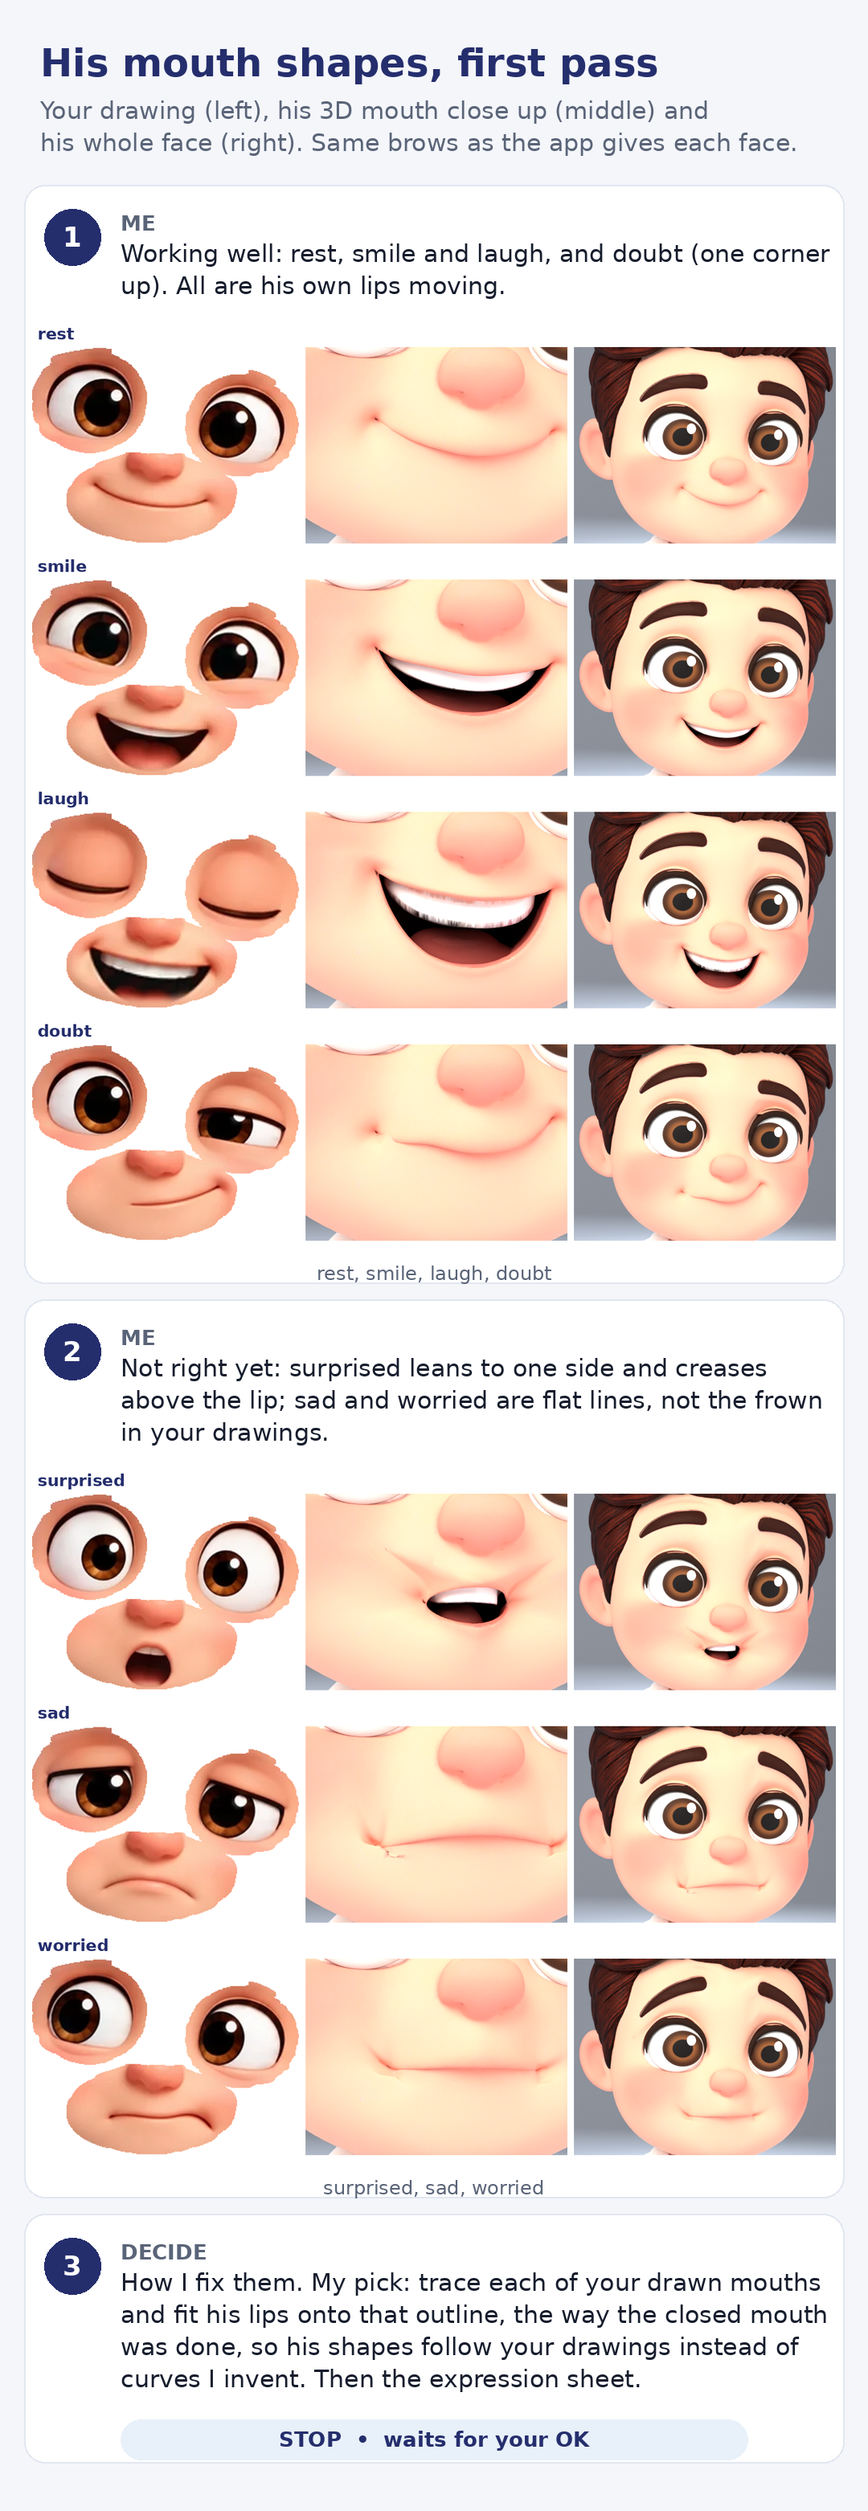
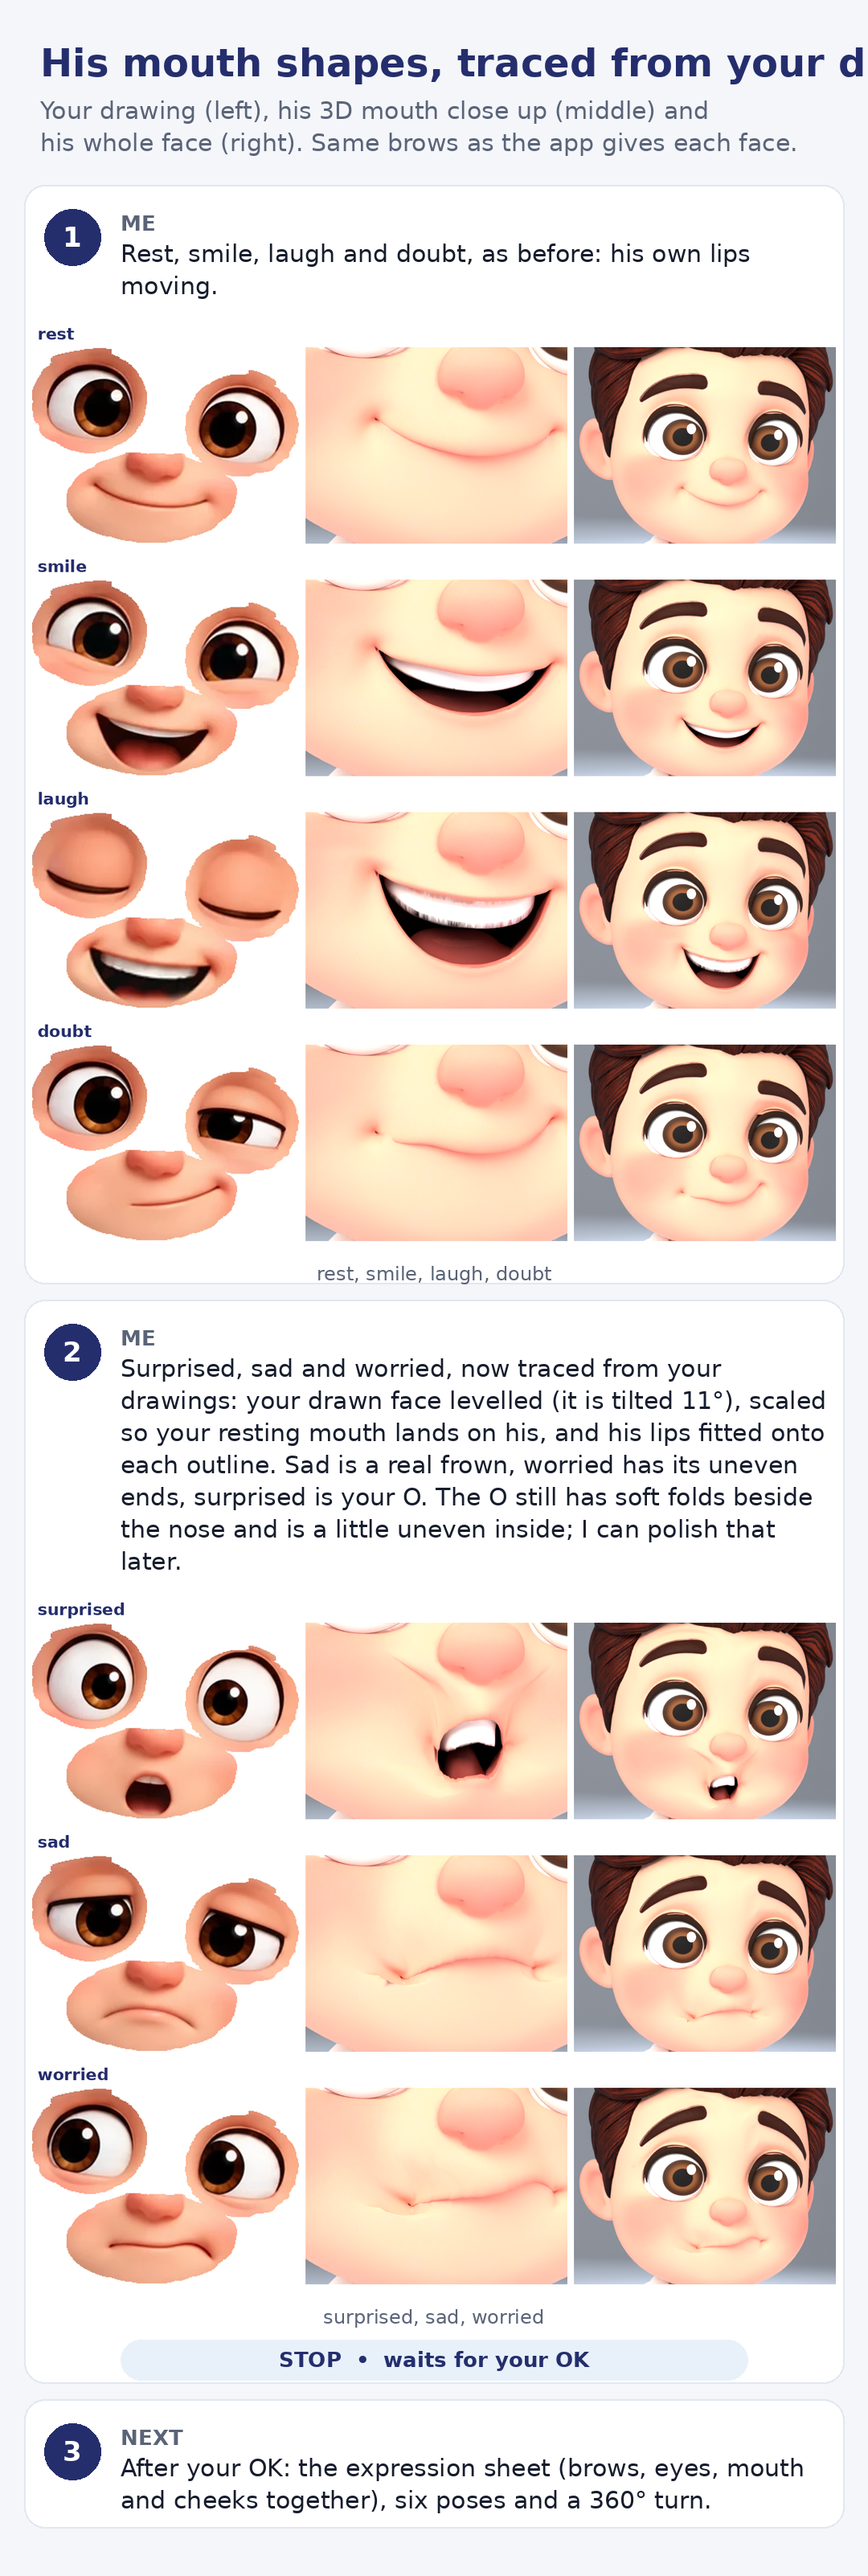
3D Dr. Smiley: surprised, sad and worried mouths traced from Jose's drawings
tripo_trace.py traces the drawn mouths in drsmiley/face.webp, levels the
tilted drawing and maps its resting mouth onto the 3D one; fit_line() and
fit_open() fit his own lips onto each outline. out/plan-mouths.png shows all
seven beside the drawings, waiting on Jose's OK. Docs only, no app change,
so no User Guide change.

Claude-Session: https://claude.ai/code/session_011askx983Tm1ZdoDUiZZ1Y5

diff --git a/docs/mockups/smiley-3d/tripo_trace.py b/docs/mockups/smiley-3d/tripo_trace.py
@@ -1,0 +1,123 @@
+"""Jose's drawn mouths traced (drsmiley/face.webp; Jose's pick 2026-10-22:
+his 3D mouths follow the drawings, not curves made up here).
+
+All 30 frames are drawn on one face, so they share one set of coordinates.
+That face is tilted (his eyes are not level) and turned a little: the
+tracings are levelled by the line between his eyes, then mapped so the drawn
+resting mouth lands exactly on the 3D resting mouth (its corners and its
+middle); every other mouth goes through the same mapping.
+
+trace(name) -> {'line': (xs, zs)} for a closed mouth, {'open': (xs, tops, bots)}
+for an open one, in metres on his face.
+"""
+import os, math
+import numpy as np
+import cv2
+from PIL import Image
+
+HERE = os.path.dirname(os.path.abspath(__file__))
+FRAMES = ['rest', 'blink1', 'blink2', 'shut', 'wink1', 'wink2', 'wink', 'smile1', 'smile2', 'smile', 'laugh1', 'laugh2', 'laugh',
+          'laughB', 'lookL', 'lookR', 'love', 'sleep', 'halfL', 'halfR', 'lookU', 'lookD', 'lookUL', 'lookUR', 'lookDL', 'lookDR',
+          'surprised', 'sad', 'worried', 'doubt']
+FW, FH = 302, 222
+_im = None
+
+
+def frame(name):
+    global _im
+    if _im is None:
+        _im = np.asarray(Image.open(os.path.join(HERE, '..', '..', '..', 'drsmiley', 'face.webp')).convert('RGBA')).astype(float)
+    k = FRAMES.index(name)
+    return _im[:, k * FW:(k + 1) * FW]
+
+
+def tilt():
+    """The drawing's tilt: the line between the eyes in the rest frame (wide open)."""
+    f = frame('rest')
+    white = ((f[..., :3].min(2) > 225) & (f[..., 3] > 200) & (np.arange(FH)[:, None] < 110)).astype(np.uint8)
+    n, lab, st, c = cv2.connectedComponentsWithStats(white)
+    (x0, y0), (x1, y1) = sorted(tuple(c[i]) for i in sorted(range(1, n), key=lambda i: -st[i, 4])[:2])
+    return math.atan2(y1 - y0, x1 - x0)
+
+
+def line_px(name):
+    """A closed mouth's lip line: from the darkest point under the nose, followed
+    left and right while it stays darker than the skin round it."""
+    f = frame(name); lum = f[..., :3] @ [.3, .59, .11]; ok = f[..., 3] > 200
+    def at(x, y_hint, span):
+        lo, hi = max(150, y_hint - span), min(FH - 4, y_hint + span)
+        col = np.where(ok[lo:hi, x], lum[lo:hi, x], 999.)
+        y = lo + int(np.argmin(col))
+        ring = lum[max(140, y - 14):y + 14, x][ok[max(140, y - 14):y + 14, x]]
+        return y, (np.median(ring) - lum[y, x]) if len(ring) else 0
+    x0 = 140; y0, _ = at(x0, 185, 30)
+    pts = {x0: y0}
+    for step in (-1, 1):
+        x, y = x0, y0
+        while 10 < x < FW - 10:
+            x += step
+            y2, c = at(x, y, 3)
+            if c < 22:
+                break
+            pts[x] = y = y2
+    xs = np.array(sorted(pts)); return xs, np.array([pts[x] for x in xs], float)
+
+
+def open_px(name):
+    """An open mouth: the dark inside and the teeth under the nose, top and bottom per column."""
+    f = frame(name); lum = f[..., :3] @ [.3, .59, .11]
+    m = ((lum < 150) | (f[..., :3].min(2) > 215)) & (f[..., 3] > 200)
+    m[:150] = 0
+    n, lab, st, c = cv2.connectedComponentsWithStats(m.astype(np.uint8))
+    m = lab == 1 + np.argmax(st[1:, 4])
+    xs = np.where(m.any(0))[0]
+    return xs, np.array([np.nonzero(m[:, x])[0].min() for x in xs], float), np.array([np.nonzero(m[:, x])[0].max() for x in xs], float)
+
+
+def level(xs, ys, a, c):
+    """Rotate drawing points by -a about c; returns x right, z up (pixels)."""
+    dx, dy = xs - c[0], ys - c[1]
+    return dx * math.cos(a) + dy * math.sin(a), -(-dx * math.sin(a) + dy * math.cos(a))
+
+
+def mapping(X, ZU, ZL, upper):
+    """Drawing pixels -> metres on his face: the levelled drawn rest line's corners
+    and middle onto the 3D resting line (zc = zu - upper * h)."""
+    a = tilt()
+    rx, ry = line_px('rest')
+    c = (rx.mean(), ry.mean())
+    lx, lz = level(rx, ry, a, c)
+    zc = ZU - upper * (ZU - ZL)
+    s = (X.max() - X.min()) / (lx.max() - lx.min())            # metres per pixel, one scale both ways
+    xm3, xmd = (X.max() + X.min()) / 2, (lx.max() + lx.min()) / 2
+    mid3 = float(np.interp(xm3, X, zc)); midd = float(np.interp(xmd, lx, lz))
+    def to3d(xs, ys):
+        u, v = level(np.asarray(xs, float), np.asarray(ys, float), a, c)
+        return xm3 + (u - xmd) * s, mid3 + (v - midd) * s
+    return to3d, s
+
+
+def trace(name, X, ZU, ZL, upper):
+    to3d, s = mapping(X, ZU, ZL, upper)
+    if name == 'surprised':
+        xs, top, bot = open_px(name)
+        x3, t3 = to3d(xs, top); _, b3 = to3d(xs, bot)
+        return {'open': (x3, t3, b3)}
+    xs, ys = line_px(name)
+    x3, z3 = to3d(xs, ys)
+    return {'line': (x3, z3)}
+
+
+if __name__ == '__main__':
+    op = np.load(os.path.join(HERE, 'in', 'mouth-opening.npz'))
+    from tripo_mouthtest import UPPER
+    X, ZU, ZL = op['X'], op['ZU'], op['ZL']
+    print('tilt', round(math.degrees(tilt()), 1), 'deg; mm per drawing px', round(mapping(X, ZU, ZL, UPPER)[1] * 1000, 3))
+    for n in ('rest', 'sad', 'worried', 'surprised'):
+        t = trace(n, X, ZU, ZL, UPPER)
+        if 'line' in t:
+            x, z = t['line']; print(n, 'width mm', round((x.max() - x.min()) * 1000, 1), 'x', x.min().round(4), x.max().round(4),
+                                     'z ends', z[0].round(4), z[-1].round(4), 'mid', np.interp((x.min() + x.max()) / 2, x, z).round(4))
+        else:
+            x, tp, bt = t['open']; print(n, 'width mm', round((x.max() - x.min()) * 1000, 1), 'tallest mm', round((tp - bt).max() * 1000, 1),
+                                         'x', x.min().round(4), x.max().round(4))

diff --git a/docs/mockups/smiley-3d/tripo_mouths.py b/docs/mockups/smiley-3d/tripo_mouths.py
@@ -25,9 +25,9 @@ MOUTHS = {
     'rest':      dict(close=1),
     'smile':     dict(close=0, cheek=(.6, .6), brow=((2, 0), (2.4, 0))),
     'laugh':     dict(close=0, mouth={'JawOpen': 1, 'CornerUp.L': .6, 'CornerUp.R': .6}, cheek=(1, 1), brow=((2.8, 0), (3.4, 0))),
-    'surprised': dict(close=0, mouth={'O': 1}, brow=((4.2, 0), (5, 0))),
-    'sad':       dict(close=1, mouth={'Frown': 1}, brow=((1, 11), (1.2, 13))),
-    'worried':   dict(close=1, mouth={'Frown': .75, 'Narrow': .3}, brow=((1.4, 15), (1.7, 18))),
+    'surprised': dict(close=0, mouth={'Surprised': 1}, brow=((4.2, 0), (5, 0))),
+    'sad':       dict(close=1, mouth={'Sad': 1}, brow=((1, 11), (1.2, 13))),
+    'worried':   dict(close=1, mouth={'Worried': 1}, brow=((1.4, 15), (1.7, 18))),
     'doubt':     dict(close=1, mouth={'CornerDown.R': .7, 'CornerUp.L': 1}, brow=((3, 4), (-1.2, 2.4))),
 }
 DRAWN = ['rest', 'blink1', 'blink2', 'shut', 'wink1', 'wink2', 'wink', 'smile1', 'smile2', 'smile', 'laugh1', 'laugh2', 'laugh',
@@ -118,6 +118,59 @@ def oval(co0, X, ZU, ZL, front, a=.024, b=.01):
     return co
 
 
+def fit_line(co0, X, ZU, ZL, teeth, front, xs, zs):
+    """A closed mouth fitted to a traced lip line (tripo_trace.py): on top of
+    Mouth.Close1, his closed line's ends go to the tracing's ends, each point
+    between to its place along it, up or down onto it. Both lips near the
+    line move together; past the corners the move fades out."""
+    from tripo_mouthtest import UPPER
+    shut = close_mouth(co0, X, ZU, ZL, 1, teeth)
+    x, y = co0[:, 0], co0[:, 1]
+    X0, X1 = X.min(), X.max()
+    zc = np.interp(x, X, ZU) - UPPER * (np.interp(x, X, ZU) - np.interp(x, X, ZL))
+    u = np.clip((x - X0) / (X1 - X0), 0, 1)
+    nx = xs[0] + u * (xs[-1] - xs[0])
+    past = np.maximum(np.maximum(X0 - x, x - X1), 0)
+    fade = 1 - smooth(past / .025)
+    dz = (np.interp(nx, xs, zs) - zc) * fade
+    dx = (nx - np.clip(x, X0, X1)) * fade
+    off = np.abs(shut[:, 2] - zc)
+    wall = front * (1 - smooth((y + .105) / .022))
+    co = co0.copy()
+    co[:, 2] += dz * (1 - smooth((off - .004) / .024)) * wall
+    co[:, 0] += dx * (1 - smooth((off - .004) / .016)) * wall     # sideways only near the lips (it creased under the nose)
+    return co
+
+
+def fit_open(co0, X, ZU, ZL, front, xs, tops, bots):
+    """An open mouth fitted to a traced opening: each column of his lips moved
+    in to its place across the tracing, the top edge onto its top, the bottom
+    edge (and the jaw under it) onto its bottom."""
+    x, y, z = co0.T
+    X0, X1 = X.min(), X.max()
+    zu, zl = np.interp(x, X, ZU), np.interp(x, X, ZL)
+    h = zu - zl
+    u = np.clip((x - X0) / (X1 - X0), 0, 1)
+    nx = xs[0] + u * (xs[-1] - xs[0])
+    du, dl = np.interp(nx, xs, tops) - zu, np.interp(nx, xs, bots) - zl
+    t = np.clip((z - zl) / np.maximum(h, 1e-6), 0, 1)
+    dz = np.where(z > zu, du * (1 - smooth((z - zu) / .012)),
+                  np.where(z < zl, dl * (1 - smooth((zl - z) / .045)), dl * (1 - t) + du * t))
+    past = np.maximum(np.maximum(X0 - x, x - X1), 0)
+    fade = 1 - smooth(past / .06)
+    dx = (nx - np.clip(x, X0, X1)) * fade
+    # a pucker pulls the cheeks and the skin under the nose in too: kept to the
+    # lips alone, the squeeze (10 cm to 4) creased from the nose down
+    reach = (1 - smooth((z - zu) / .03)) * (1 - smooth((zl - .004 - z) / .04))
+    wall = front * (1 - smooth((y + .105) / .022))
+    co = co0.copy()
+    co[:, 0] += dx * reach * wall
+    co[:, 2] += dz * (1 - smooth(past / .025)) * wall
+    inside = (x > X0) & (x < X1)
+    co[:, 1] -= .005 * np.sin(np.pi * u) * inside * reach * wall    # the lips push forward a little
+    return co
+
+
 if __name__ == '__main__':
     bpy.ops.wm.open_mainfile(filepath=os.path.join(HERE, 'in', 'tripo-face.blend'))
     ob = bpy.data.objects['Mesh_0']
@@ -138,6 +191,14 @@ if __name__ == '__main__':
     add_key(ob, 'Mouth.Narrow', narrow(co0, X, ZU, ZL, front))
     add_key(ob, 'Mouth.Frown', frown(co0, X, ZU, ZL, teeth, front))
     add_key(ob, 'Mouth.O', oval(co0, X, ZU, ZL, front))
+    # his three mouths traced from the drawings (Jose's pick)
+    from tripo_trace import trace
+    from tripo_mouthtest import UPPER
+    for n in ('sad', 'worried'):
+        xs, zs = trace(n, X, ZU, ZL, UPPER)['line']
+        add_key(ob, 'Mouth.' + n.capitalize(), fit_line(co0, X, ZU, ZL, teeth, front, xs, zs))
+    xs, tops, bots = trace('surprised', X, ZU, ZL, UPPER)['open']
+    add_key(ob, 'Mouth.Surprised', fit_open(co0, X, ZU, ZL, front, xs, tops, bots))
     bpy.ops.wm.save_as_mainfile(filepath=os.path.join(HERE, 'in', 'tripo-face.blend'))
     # the sheet: each drawn mouth, then his, close up and the whole face
     build.STYLE_NOW = 'tripo'

diff --git a/docs/mockups/smiley-3d/tripo_mouthboard.py b/docs/mockups/smiley-3d/tripo_mouthboard.py
@@ -7,12 +7,13 @@ from storyboard import O, fit, board
 sheet = Image.open(O('plan/mouths.png')).convert('RGB')
 h = sheet.height // 7
 rows = lambda ks: fit(Image.fromarray(__import__('numpy').vstack([__import__('numpy').asarray(sheet.crop((0, k * h, sheet.width, (k + 1) * h))) for k in ks])), 1000, 2000)
-board('His mouth shapes, first pass', ['Your drawing (left), his 3D mouth close up (middle) and', 'his whole face (right). Same brows as the app gives each face.'], [
-    ('1', 'ME', 'Working well: rest, smile and laugh, and doubt (one corner up). All are his own lips moving.',
+board('His mouth shapes, traced from your drawings', ['Your drawing (left), his 3D mouth close up (middle) and', 'his whole face (right). Same brows as the app gives each face.'], [
+    ('1', 'ME', 'Rest, smile, laugh and doubt, as before: his own lips moving.',
      [rows([0, 1, 2, 6])], 'rest, smile, laugh, doubt', False),
-    ('2', 'ME', 'Not right yet: surprised leans to one side and creases above the lip; sad and worried are flat lines, '
-     'not the frown in your drawings.', [rows([3, 4, 5])], 'surprised, sad, worried', False),
-    ('3', 'DECIDE', 'How I fix them. My pick: trace each of your drawn mouths and fit his lips onto that outline, the way '
-     'the closed mouth was done, so his shapes follow your drawings instead of curves I invent. Then the expression sheet.',
-     [], '', True),
+    ('2', 'ME', 'Surprised, sad and worried, now traced from your drawings: your drawn face levelled (it is tilted 11\u00b0), '
+     'scaled so your resting mouth lands on his, and his lips fitted onto each outline. Sad is a real frown, worried has its '
+     'uneven ends, surprised is your O. The O still has soft folds beside the nose and is a little uneven inside; I can polish '
+     'that later.', [rows([3, 4, 5])], 'surprised, sad, worried', True),
+    ('3', 'NEXT', 'After your OK: the expression sheet (brows, eyes, mouth and cheeks together), six poses and a 360\u00b0 turn.',
+     [], '', False),
 ], 'plan-mouths.png')

diff --git a/docs/handoff.md b/docs/handoff.md
@@ -9,8 +9,7 @@ and the mouth test for the 3D Dr. Smiley on Jose's Tripo model (PR #114, branch 
 > Read `AGENTS.md`, `CLAUDE.md`, `docs/PLAN.md` and `docs/handoff.md`. Then
 > continue the 3D Dr. Smiley on branch `claude/3d-dr-smiley-r1-avn9y1`: I'll
 > attach the zip of my Tripo model; rebuild it (with the face rig), then
-> fix his surprised, sad and worried mouths from my drawings and show me
-> the expression sheet. Plain words, say "working on
+> show me the expression sheet (brows, eyes, mouth, cheeks together). Plain words, say "working on
 > it" and "done".
 
 ## Jose's standing rule for this work (in `AGENTS.md`)
@@ -84,10 +83,13 @@ expressions as mixes. Shown: `out/plan-mouths.png`. Good: rest, smile,
 laugh, doubt. Not yet: surprised (leans, creases above the lip), sad and
 worried (flat, not a frown).
 
-1. **Waiting on Jose:** my proposed fix is to trace each drawn mouth in
-   `drsmiley/face.webp` (its lip line or opening) and fit his lips onto
-   that outline, the way `close_mouth()` targets a meeting line and
-   `oval()` an ellipse: map the drawing's mouth box onto his opening's box.
+1. **Done, waiting on Jose's OK:** surprised, sad and worried traced from
+   his drawings (Jose's pick): `tripo_trace.py` levels the drawn face (11
+   degree tilt), maps the drawn rest mouth onto the 3D one, and
+   `fit_line()` / `fit_open()` in `tripo_mouths.py` fit his lips to each
+   outline (keys `Mouth.Sad`, `Mouth.Worried`, `Mouth.Surprised`). Shown:
+   `out/plan-mouths.png`. Known: the O has soft folds by the nose and is a
+   little uneven inside (teeth one side).
 2. Then the expression sheet (brows + eyes + mouth + cheeks), six poses,
    a 360-degree turn: stop for his OK.
 3. Then the animation (R2), as a visual plan first.
